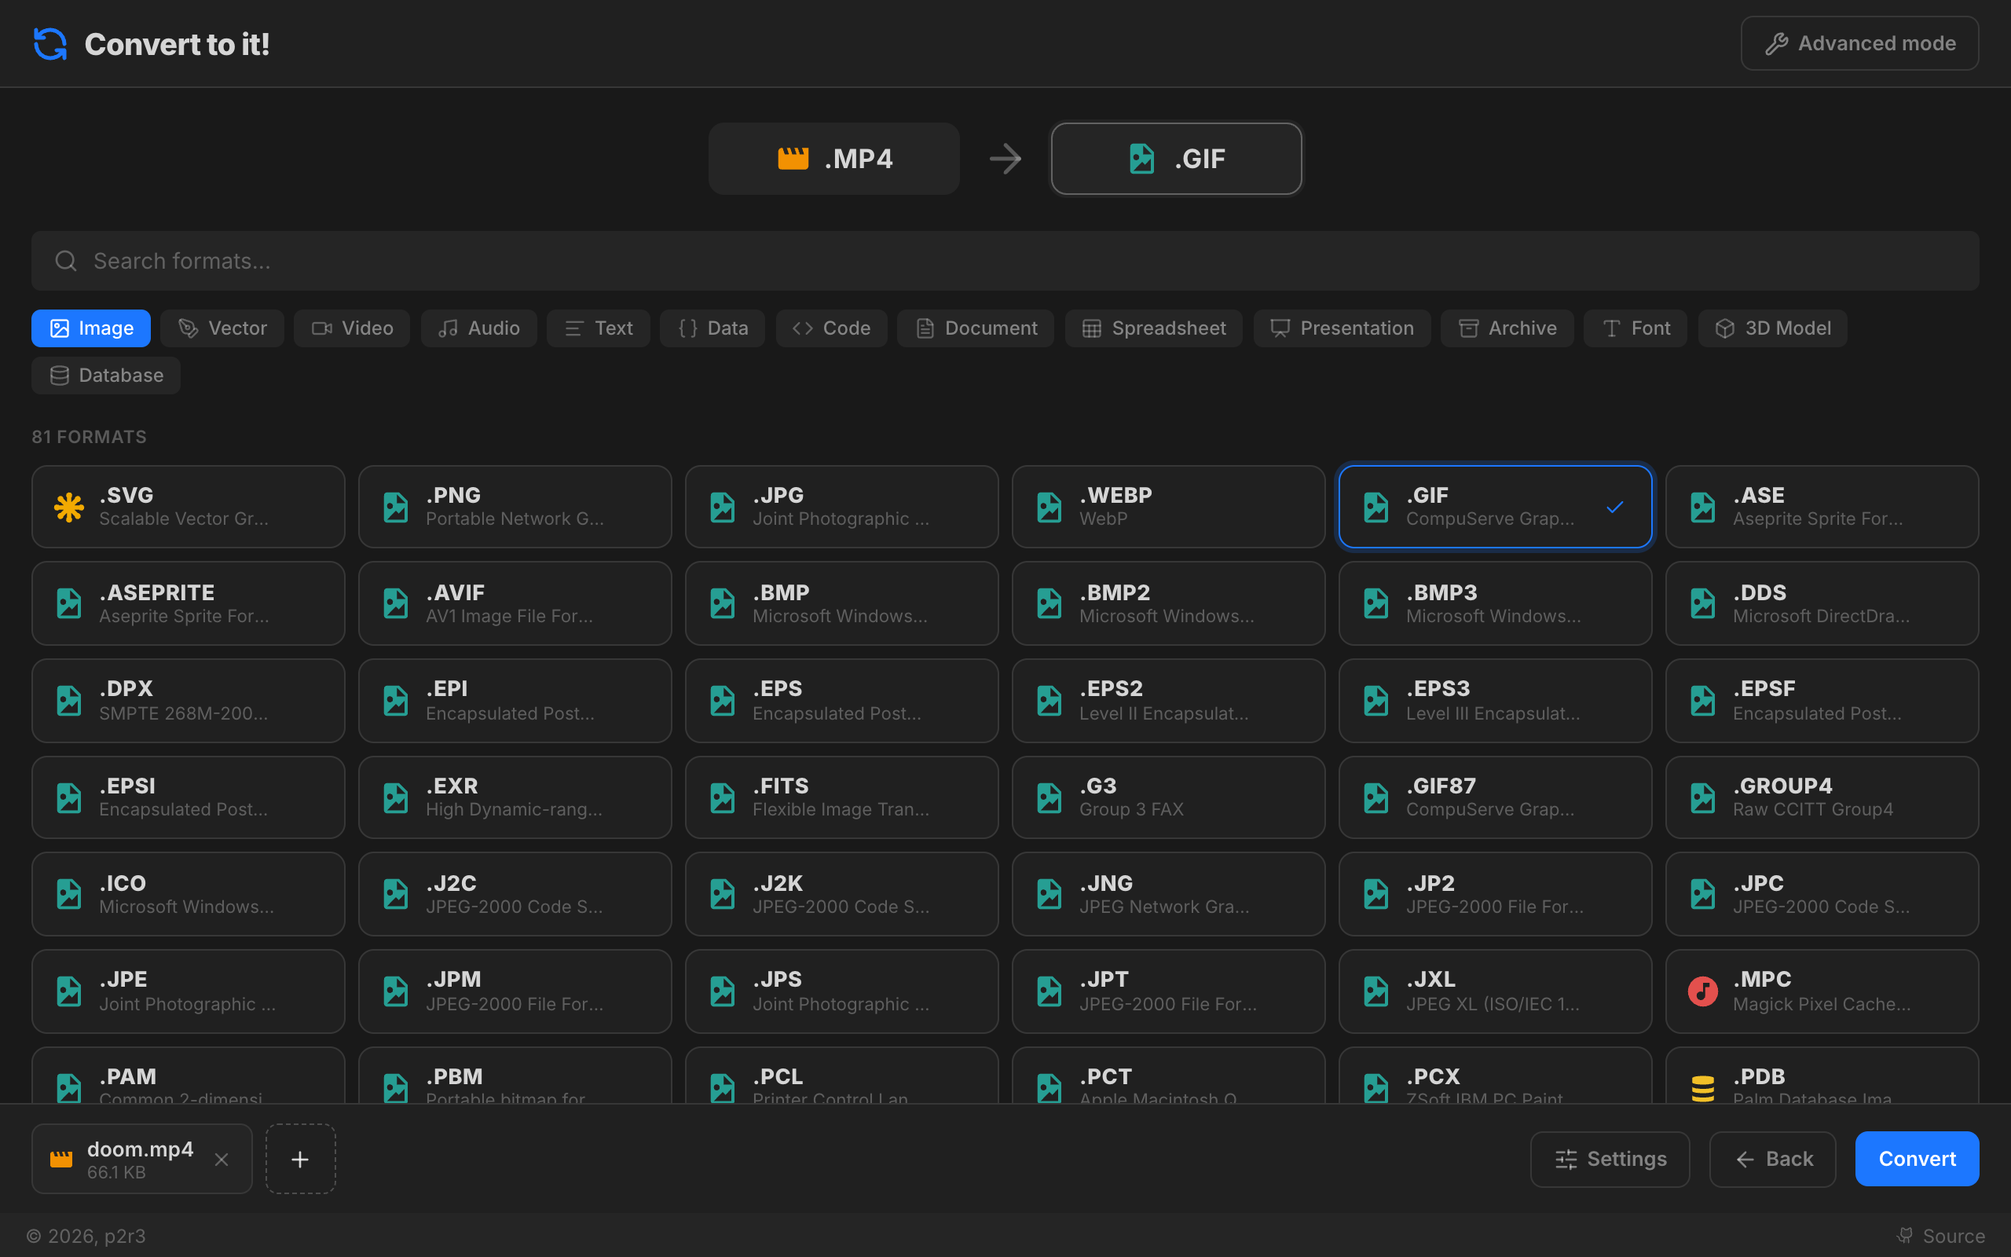
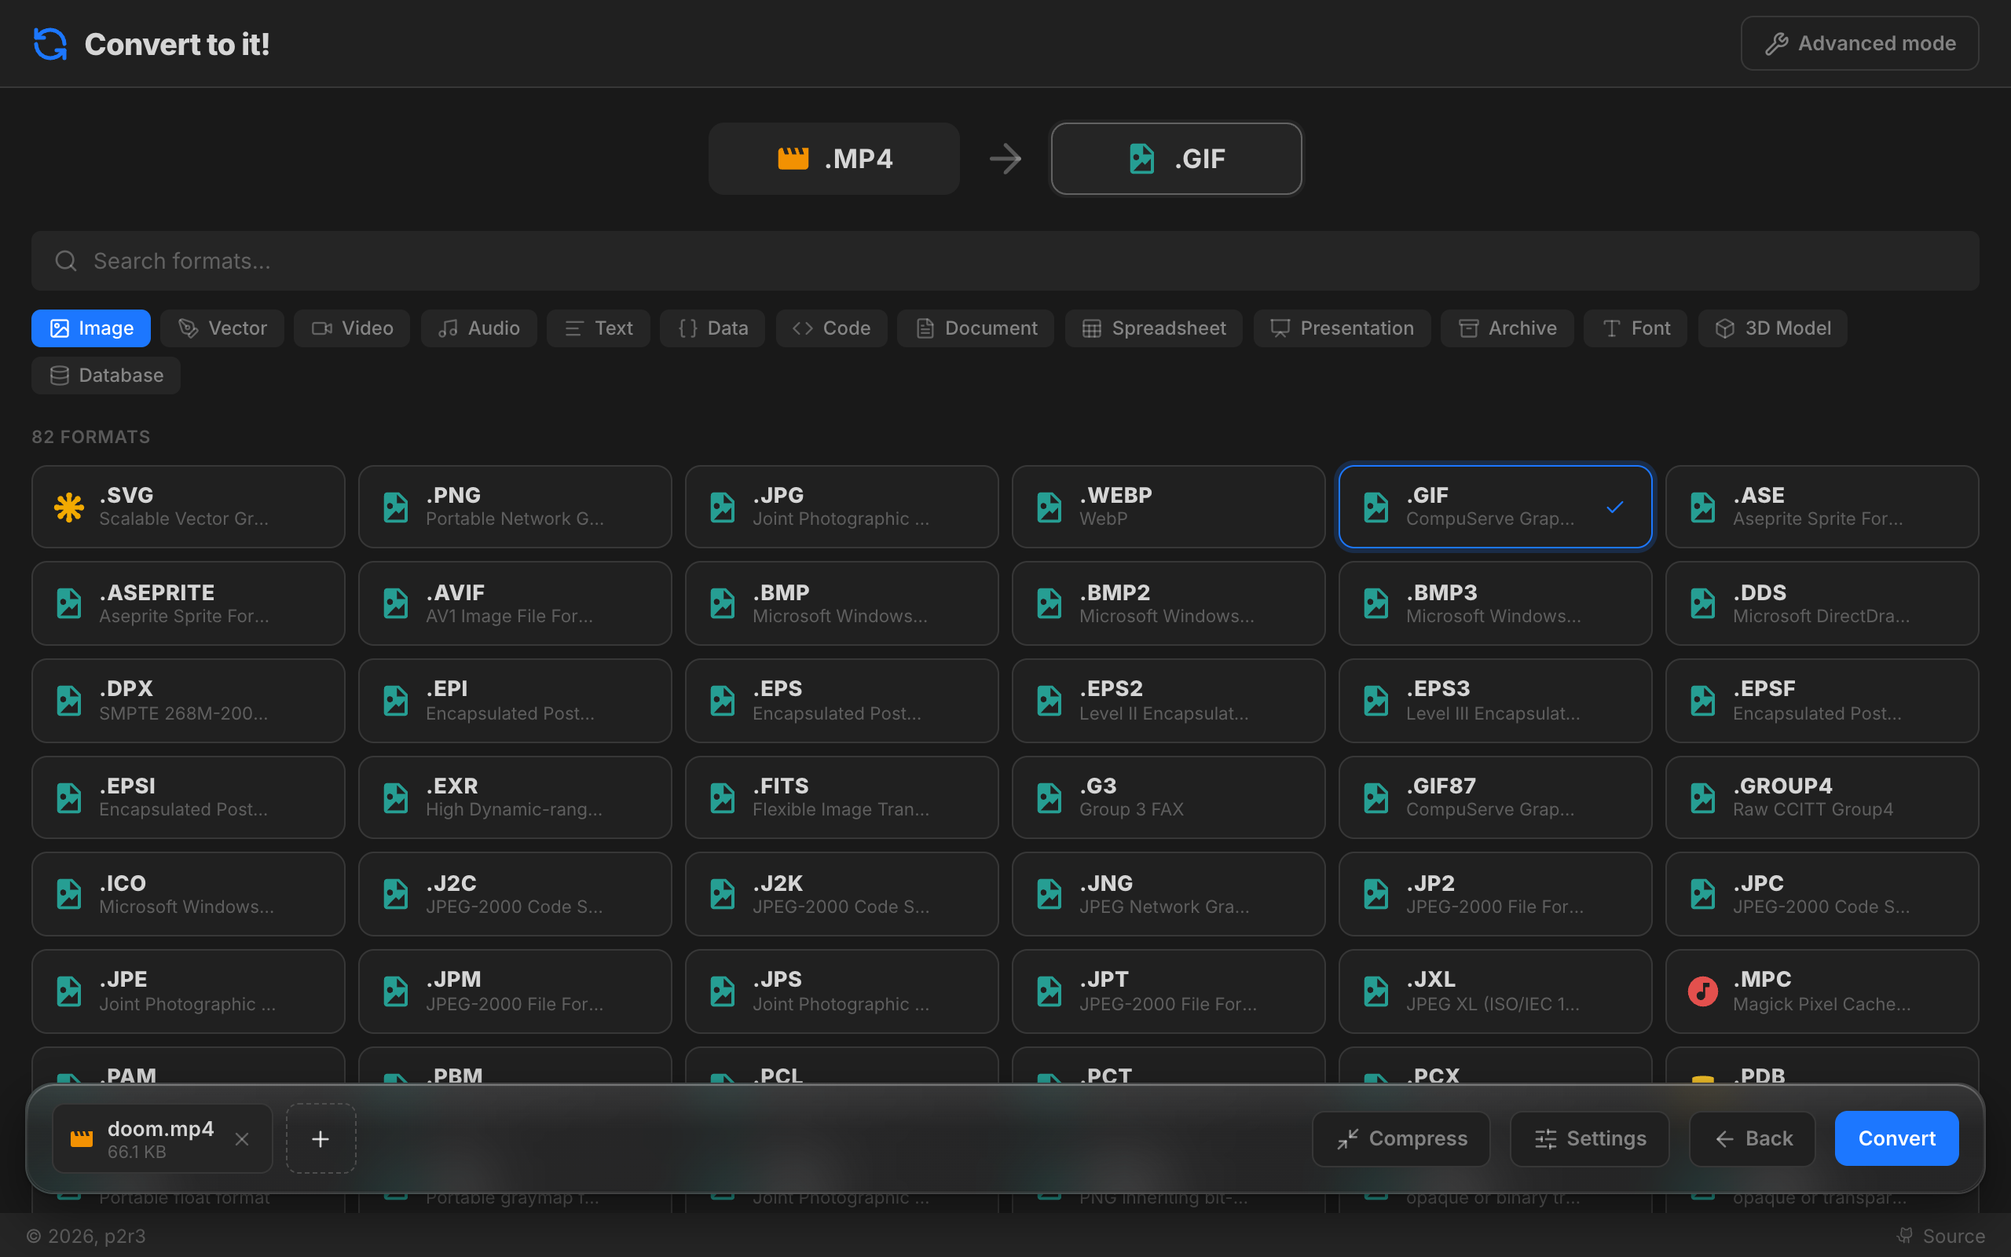
add liquid glass to the action bar and dialogs
Uses LiquidGlass UI (MIT) through the build system, pinned to a commit.
The action bar floats over the format list as a refracting glass pane;
dialogs are a denser glass sheet. README screenshots retaken.

diff --git a/src/ui/pages/Conversion/index.tsx b/src/ui/pages/Conversion/index.tsx
@@ -1,5 +1,6 @@
 import "./index.css";
 
+import { h } from "preact";
 import { useState, useMemo, useEffect, useRef } from "preact/hooks";
 import {
   ConversionOptions,
@@ -376,92 +377,98 @@ export default function Conversion() {
         )}
       </main>
 
-      {step !== "converting" && (
-        <div className="conversion-action-bar">
-          <div className="conversion-action-files">
-            {entries.map(([key, file]) => (
-              <FileInfoBadge
-                key={key}
-                fileName={file.name}
-                fileSize={file.size}
-                extension={file.name.split(".").pop()}
-                mimeType={file.type}
-                onRemove={() => removeFile(key)}
-                active={multiple && key === activeKey}
-                target={multiple ? (targets[key]?.to?.[0].format.toUpperCase() ?? "?") : undefined}
-                onClick={multiple ? () => setChosenKey(key) : undefined}
-              />
-            ))}
-            <div
-              className="file-info-badge file-info-add"
-              onClick={handleAddClick}
-              role="button"
-              tabIndex={0}
-              aria-label="Add more files"
-              onKeyDown={(e) => {
-                if (e.key !== "Enter" && e.key !== " ") return;
-                e.preventDefault();
-                addFileRef.current?.click();
-              }}
-            >
-              <input
-                ref={addFileRef}
-                type="file"
-                multiple
-                hidden
-                onClick={(ev) => ev.stopPropagation()}
-                onChange={handleAddChange}
-              />
-              <Plus size={16} />
+      {step !== "converting" &&
+        // h() because Preact's JSX types don't know this custom element (built/liquid-glass-ui)
+        h(
+          "liquid-glass",
+          { class: "conversion-dock", refraction: true },
+          <div className="conversion-action-bar">
+            <div className="conversion-action-files">
+              {entries.map(([key, file]) => (
+                <FileInfoBadge
+                  key={key}
+                  fileName={file.name}
+                  fileSize={file.size}
+                  extension={file.name.split(".").pop()}
+                  mimeType={file.type}
+                  onRemove={() => removeFile(key)}
+                  active={multiple && key === activeKey}
+                  target={
+                    multiple ? (targets[key]?.to?.[0].format.toUpperCase() ?? "?") : undefined
+                  }
+                  onClick={multiple ? () => setChosenKey(key) : undefined}
+                />
+              ))}
+              <div
+                className="file-info-badge file-info-add"
+                onClick={handleAddClick}
+                role="button"
+                tabIndex={0}
+                aria-label="Add more files"
+                onKeyDown={(e) => {
+                  if (e.key !== "Enter" && e.key !== " ") return;
+                  e.preventDefault();
+                  addFileRef.current?.click();
+                }}
+              >
+                <input
+                  ref={addFileRef}
+                  type="file"
+                  multiple
+                  hidden
+                  onClick={(ev) => ev.stopPropagation()}
+                  onChange={handleAddChange}
+                />
+                <Plus size={16} />
+              </div>
             </div>
-          </div>
-          {step === "select-to" && toSiblings.length > 0 && (
-            <label
-              className="conversion-apply-all"
-              title="Untick to choose a different output for this file only"
-            >
-              <input
-                type="checkbox"
-                checked={applyToAll}
-                onChange={(ev) => setApplyToAll(ev.currentTarget.checked)}
-              />
-              All {toSiblings.length + 1} {fromOption?.[0].format.toUpperCase()} files
-            </label>
-          )}
-          {step === "select-to" && compressors.length > 0 && (
+            {step === "select-to" && toSiblings.length > 0 && (
+              <label
+                className="conversion-apply-all"
+                title="Untick to choose a different output for this file only"
+              >
+                <input
+                  type="checkbox"
+                  checked={applyToAll}
+                  onChange={(ev) => setApplyToAll(ev.currentTarget.checked)}
+                />
+                All {toSiblings.length + 1} {fromOption?.[0].format.toUpperCase()} files
+              </label>
+            )}
+            {step === "select-to" && compressors.length > 0 && (
+              <StyledButton
+                onClick={() => handleToSelect(compressors[0])}
+                title="Keep the format and make the file smaller"
+              >
+                <Minimize2 size={16} />
+                Compress
+              </StyledButton>
+            )}
+            {step === "select-to" && (
+              <StyledButton onClick={handleSettingsClick}>
+                <SlidersHorizontal size={16} />
+                Settings
+              </StyledButton>
+            )}
+            {step === "select-to" && (
+              <StyledButton onClick={handleBack}>
+                <ArrowLeft size={16} />
+                Back
+              </StyledButton>
+            )}
             <StyledButton
-              onClick={() => handleToSelect(compressors[0])}
-              title="Keep the format and make the file smaller"
+              variant={ButtonVariant.Primary}
+              disabled={!canProceed}
+              title={
+                step === "select-to" && !allReady ? "Choose an output for every file" : undefined
+              }
+              onClick={step === "select-from" ? handleNext : handleConvert}
             >
-              <Minimize2 size={16} />
-              Compress
+              {step === "select-from" ? "Next" : "Convert"}
+              {step === "select-from" && <ArrowRight size={16} />}
             </StyledButton>
-          )}
-          {step === "select-to" && (
-            <StyledButton onClick={handleSettingsClick}>
-              <SlidersHorizontal size={16} />
-              Settings
-            </StyledButton>
-          )}
-          {step === "select-to" && (
-            <StyledButton onClick={handleBack}>
-              <ArrowLeft size={16} />
-              Back
-            </StyledButton>
-          )}
-          <StyledButton
-            variant={ButtonVariant.Primary}
-            disabled={!canProceed}
-            title={
-              step === "select-to" && !allReady ? "Choose an output for every file" : undefined
-            }
-            onClick={step === "select-from" ? handleNext : handleConvert}
-          >
-            {step === "select-from" ? "Next" : "Convert"}
-            {step === "select-from" && <ArrowRight size={16} />}
-          </StyledButton>
-        </div>
-      )}
+          </div>,
+        )}
 
       <Footer />
     </div>

diff --git a/src/ui/glass.css b/src/ui/glass.css
@@ -1,0 +1,38 @@
+/*
+ * Maps the tokens of LiquidGlass UI (built/liquid-glass-ui) onto this app's two themes.
+ * The library's defaults are a white pane for dark, colourful backdrops. Here the tint is the
+ * theme's own surface colour, so a pane that falls back to opaque still fits its text.
+ */
+:root {
+  --lg-font: inherit;
+  --lg-ink: inherit;
+  --lg-radius: 18px;
+  --lg-focus-ring: var(--primary);
+
+  --lg-tint: 250, 251, 253;
+  --lg-tint-strength: 0.55;
+  /* a dark hairline, because the library's white edge vanishes on a white page */
+  --lg-border: rgba(15, 20, 30, 0.1);
+  --lg-rim: rgba(255, 255, 255, 0.9);
+  --lg-specular: inset 0 1px 1px rgba(255, 255, 255, 0.7);
+  --lg-occlusion: inset 0 -1px 1px rgba(26, 31, 44, 0.06);
+  --lg-shadow: 0 1px 3px rgba(33, 39, 52, 0.08), 0 12px 30px rgba(33, 39, 52, 0.14);
+}
+
+:root[data-theme="dark"] {
+  --lg-tint: 46, 46, 48;
+  --lg-tint-strength: 0.36;
+  --lg-border: rgba(255, 255, 255, 0.12);
+  --lg-rim: rgba(255, 255, 255, 0.3);
+  --lg-specular: inset 0 1px 1px rgba(255, 255, 255, 0.16);
+  --lg-occlusion: inset 0 -1px 1px rgba(0, 0, 0, 0.3);
+  --lg-shadow: 0 1px 3px rgba(0, 0, 0, 0.3), 0 14px 34px rgba(0, 0, 0, 0.45);
+}
+
+/* the library sets this on :root too, and the rules above would otherwise win over it */
+@media (prefers-reduced-transparency: reduce) {
+  :root,
+  :root[data-theme="dark"] {
+    --lg-tint-strength: 0.96;
+  }
+}

diff --git a/src/ui/components/Popup/index.css b/src/ui/components/Popup/index.css
@@ -1,11 +1,16 @@
 #popup {
   max-width: 32rem;
   padding: 1.75rem 2rem;
-  background-color: var(--bg-card);
+  /* liquid glass, denser than the dock because it carries running text */
+  background: rgba(var(--lg-tint), 0.8);
+  -webkit-backdrop-filter: blur(var(--lg-blur)) saturate(var(--lg-saturate));
+  backdrop-filter: blur(var(--lg-blur)) saturate(var(--lg-saturate));
   color: var(--text-primary);
-  border: 1px solid var(--border-primary);
-  border-radius: 14px;
-  box-shadow: 0 20px 60px rgba(0, 0, 0, 0.15);
+  /* the pane is a little darker than a solid card, so soft text is darkened to keep its contrast */
+  --popup-text-soft: color-mix(in srgb, var(--text-secondary) 60%, var(--text-primary));
+  border: 1px solid var(--lg-border);
+  border-radius: var(--lg-radius);
+  box-shadow: var(--lg-shadow), var(--lg-specular), var(--lg-occlusion);
   flex-direction: column;
   gap: 0.75rem;
   margin: auto;
@@ -30,7 +35,7 @@
 
   p {
     font-size: 0.85rem;
-    color: var(--text-secondary);
+    color: var(--popup-text-soft);
     line-height: 1.6;
   }
 
@@ -38,7 +43,7 @@
   ul {
     padding-left: 1.25rem;
     font-size: 0.85rem;
-    color: var(--text-secondary);
+    color: var(--popup-text-soft);
     line-height: 1.7;
   }
 

diff --git a/src/ui/pages/Conversion/index.css b/src/ui/pages/Conversion/index.css
@@ -6,6 +6,13 @@
   display: flex;
   flex-direction: column;
   overflow: hidden;
+  /* a file badge, the action bar's padding and the glass border */
+  --dock-height: 71px;
+
+  /* room to scroll the last formats clear of the dock */
+  .format-list-container {
+    padding-bottom: calc(var(--dock-height) + 1.75rem);
+  }
 }
 
 .conversion-main {
@@ -19,11 +26,17 @@
   align-items: center;
   justify-content: flex-end;
   gap: 0.75rem;
-  padding: 0.75rem 1.25rem;
-  background: var(--bg-card);
-  border-top: 1px solid var(--border-primary);
-  flex-shrink: 0;
+  padding: 0.75rem 1rem;
   min-height: 64px;
+}
+
+/* a pane of liquid glass that floats over the end of the format list */
+.conversion-dock {
+  --lg-pad: 0;
+  flex-shrink: 0;
+  position: relative;
+  z-index: 2;
+  margin: calc(-1 * (var(--dock-height) + 0.75rem)) 1rem 0.75rem;
 }
 
 .conversion-action-files {

diff --git a/recipe/requirements.config.ts b/recipe/requirements.config.ts
@@ -134,4 +134,9 @@ export default [
     url: "https://github.com/danielgatis/rembg/releases/download/v0.0.0/u2netp.onnx",
[1 lines of base64/hex data omitted]
   },
+  {
+    name: "liquid-glass-ui",
+    url: "https://github.com/hwyuanzi/LiquidGlass-UI/archive/293328c3a983b55460b488bffb2caa6f25729c2f.tar.gz",
[1 lines of base64/hex data omitted]
+  },
 ] satisfies RequirementsConfig;

diff --git a/src/ui/index.tsx b/src/ui/index.tsx
@@ -8,6 +8,9 @@ import FullPageDropOverlay from "./components/FullPageDropOverlay";
 import { initMode } from "./ModeStore";
 import { CurrentPage, Pages } from "./AppState";
 import "./components/StyledButton/index.css";
+import "built/liquid-glass-ui/src/liquid-glass.css";
+import "./glass.css";
+import "built/liquid-glass-ui/src/liquid-glass.js";
 export { CurrentPage, LoadingToolsText, Pages, PopupData } from "./AppState";
 
 console.log("Rendering UI");

diff --git a/README.md b/README.md
@@ -15,7 +15,7 @@
 
 <picture>
   <source media="(prefers-color-scheme: dark)" srcset="docs/screenshot-dark.png">
-  <img src="docs/screenshot-light.png" alt="An MP4 file loaded and GIF chosen as the output, out of 81 image formats; category filters run from Image and Video to 3D Model and Database" width="860">
+  <img src="docs/screenshot-light.png" alt="An MP4 file loaded and GIF chosen as the output, out of 82 image formats; category filters run from Image and Video to 3D Model and Database" width="860">
 </picture>
 
 </div>
@@ -32,7 +32,7 @@ For a semi-technical overview of this tool, check out the video: https://youtu.b
 
 This is a fork of [p2r3/convert](https://github.com/p2r3/convert). The rest of this README is the original project's, apart from the notes that mention the fork. [CHANGELOG.md](CHANGELOG.md) lists every changed file.
 
-<img src="docs/settings.png" alt="The Output settings dialog for an MP4 to GIF conversion, with a frame rate field" width="350" align="right">
+<img src="docs/settings.png" alt="The Output settings dialog for an MP4 to GIF conversion, with fields for frame rate, longest side, start, end and a zip password" width="350" align="right">
 
 - **Per-conversion output settings.** A Settings button next to Convert offers the options that fit the chosen format: image quality, frame rate, video and audio bitrate, longest side, start and end time, and removing metadata. Leave a field empty to use the default.
 - **Better GIFs.** GIF output from the FFmpeg handler generates its palette in a first pass and uses it in a second.
@@ -46,6 +46,8 @@ This is a fork of [p2r3/convert](https://github.com/p2r3/convert). The rest of t
 - **One download.** Several outputs arrive as one zip, built with [zip.js](https://github.com/gildas-lormeau/zip.js). A password in Settings encrypts it with AES-256.
 - **Compress.** Converts a file to its own format and makes it smaller: JPEG, WebP and AVIF are re-encoded, video and audio are transcoded, and SVG, HTML, CSS, JavaScript and JSON are minified. If the result is not smaller, you get the original back.
 - **Three new outputs.** "Recognised text (OCR)" reads English and Dutch text from images and PDF pages, "PNG with background removed" cuts out the subject of an image, and "Merged PDF" joins the selected PDFs in the order of the file bar.
+- **Liquid glass.** The action bar is a pane of glass that floats over the format list, and dialogs are glass sheets. The material comes from [LiquidGlass UI](https://github.com/hwyuanzi/LiquidGlass-UI).
+- **Faster start.** The first video, audio or GIF conversion no longer waits about six seconds while FFmpeg lists its formats, and the development server uses the format cache.
 
 <details>
 <summary>Limits of these additions</summary>
@@ -55,6 +57,7 @@ This is a fork of [p2r3/convert](https://github.com/p2r3/convert). The rest of t
 - OCR downloads about 10 MB on first use. A PDF with several pages gives one text file per page.
 - Windows Explorer and macOS Archive Utility cannot open AES-encrypted zips; 7-Zip and Keka can.
 - Compress has no effect on formats that are already lossless or compressed, such as PNG, ZIP and PDF.
+- The glass bends what is behind it at its edges only in Chromium-based browsers. Firefox and Safari show the frosted pane without that. With "reduce transparency" switched on in the system settings, the panes are opaque.
 
 </details>
 
@@ -152,6 +155,7 @@ The additions also use these projects:
 | [tesseract.js](https://github.com/naptha/tesseract.js) and [Tesseract](https://github.com/tesseract-ocr/tesseract)                     | OCR                                  | Apache-2.0        |
 | [ONNX Runtime](https://github.com/microsoft/onnxruntime)                                                                               | Running the background removal model | MIT               |
 | [U2-Net](https://github.com/xuebinqin/U-2-Net) by Xuebin Qin and others, model file from [rembg](https://github.com/danielgatis/rembg) | Background removal model             | Apache-2.0        |
+| [LiquidGlass UI](https://github.com/hwyuanzi/LiquidGlass-UI) by Hollan Yuan                                                            | Glass action bar and dialogs         | MIT               |
 
 This is a fork of [p2r3/convert](https://github.com/p2r3/convert). [NOTICE](NOTICE) says where it comes from and what is known about the licences of its dependencies; [CHANGELOG.md](CHANGELOG.md) lists what the fork changes.
 

diff --git a/CHANGELOG.md b/CHANGELOG.md
@@ -23,7 +23,22 @@ This repository is a fork of [p2r3/convert](https://github.com/p2r3/convert). Th
 - Dependencies: `@zip.js/zip.js`, `svgo`, `html-minifier-terser`, `terser`, `tesseract.js`, `tesseract.js-core`, `@tesseract.js-data/eng`, `@tesseract.js-data/nld` and `onnxruntime-web`; the `u2netp` model in `recipe/requirements.config.ts`.
 - `docs/multi-file.png`.
 
+- A liquid glass action bar and dialogs, using LiquidGlass UI: `src/ui/glass.css`, with `liquid-glass-ui` in `recipe/requirements.config.ts`.
+- Tests for choosing a target per file (`test/batch.test.ts`) and for the longest side setting on a video (`test/commonFormats.test.ts`).
+
+#### Fixed
+
+- A file that was removed from the selection can be added again.
+- A single download no longer takes the type of another file whose conversion failed.
+- Removing the first file no longer clears the output settings and the zip password.
+- The button that adds files works from the keyboard.
+
 #### Changed
+
+- Files dropped or pasted onto an open selection are added to it. They used to replace it.
+- The first FFmpeg conversion skips format discovery when the format cache has the formats (`src/handlers/FFmpeg.ts`, `src/Converter.ts`, `src/FormatHandler.ts`), and the development server serves `dist/cache.json` (`vite.config.js`).
+- The target logic of the conversion page moved to `src/batch.ts`.
+- `.github/workflows/pages.yml` gives write permissions to the deploy job only, both Bun workflows pin Bun 1.3.8, and the desktop build has the app id `com.gitguy268.convert`.
 
 - The handlers and pages that pass those settings through: `src/Converter.ts`, `src/main.ts`, `src/common/canvas.ts`, `src/global.d.ts`, `src/handlers/FFmpeg.ts`, `src/handlers/ImageMagick.ts`, `src/handlers/canvasToBlob.ts`, `src/handlers/mediabunny.ts`, `src/ui/ProgressStore.ts`, `src/ui/components/FullPageDropOverlay/index.tsx`, `src/ui/pages/Conversion/index.tsx`, `src/ui/pages/Upload/index.tsx`, `test/commonFormats.test.ts`, `index.html`, `README.md` and `.gitignore`.
 - For the additions of 2026-10-11: `src/handlers/index.ts`, `src/ui/components/FileInfo/`, `src/ui/pages/Conversion/index.css`, `vite.config.js`, `recipe/requirements.config.ts`, `package.json`, `bun.lock` and `NOTICE`, next to the files already listed above.
